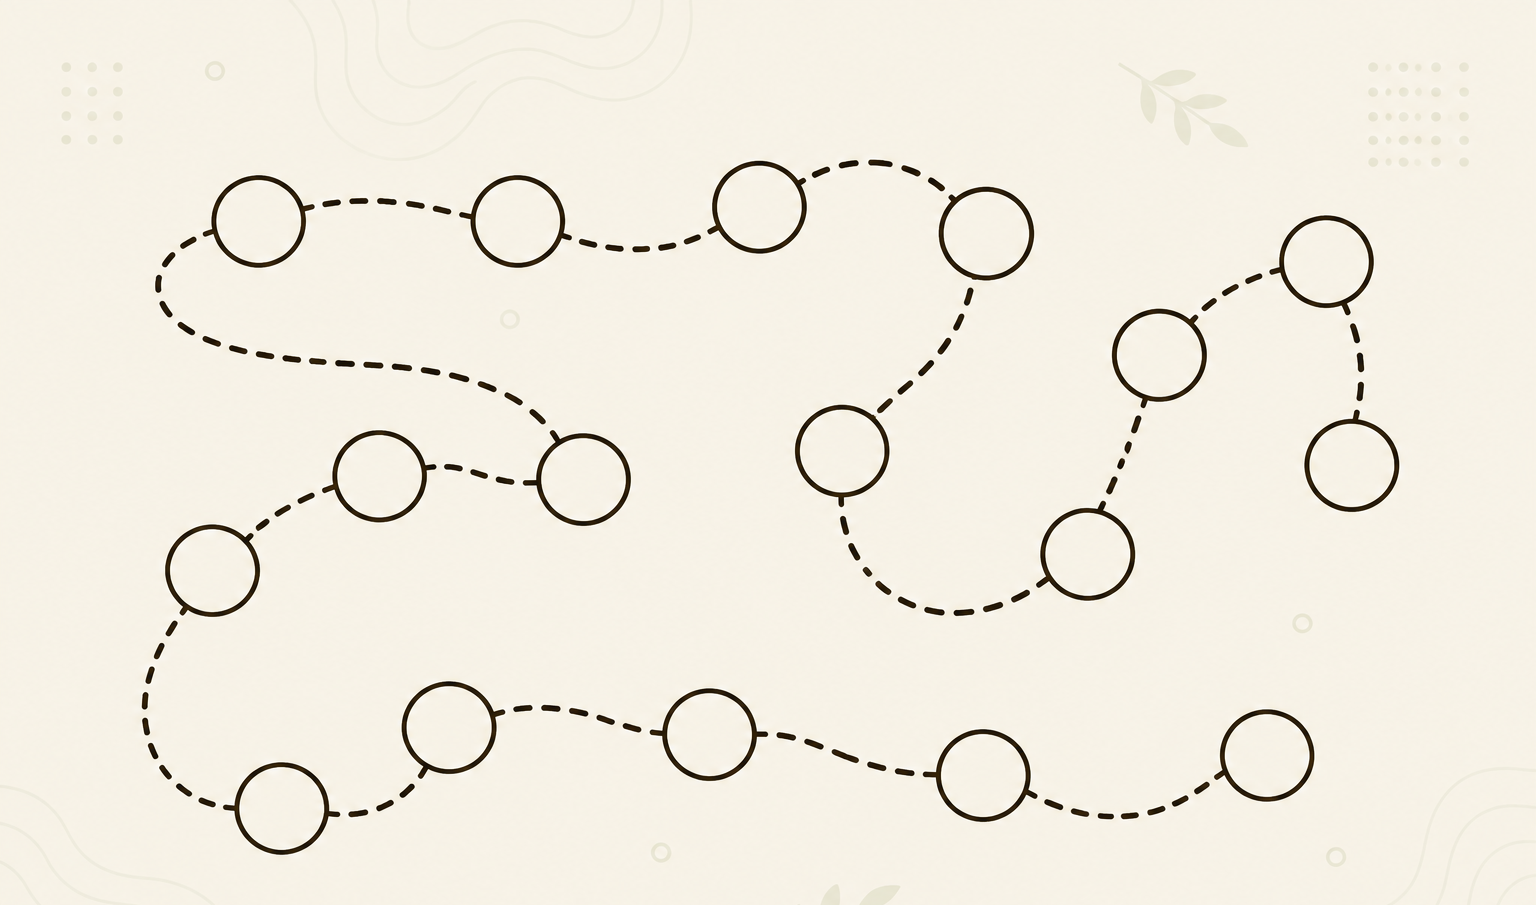
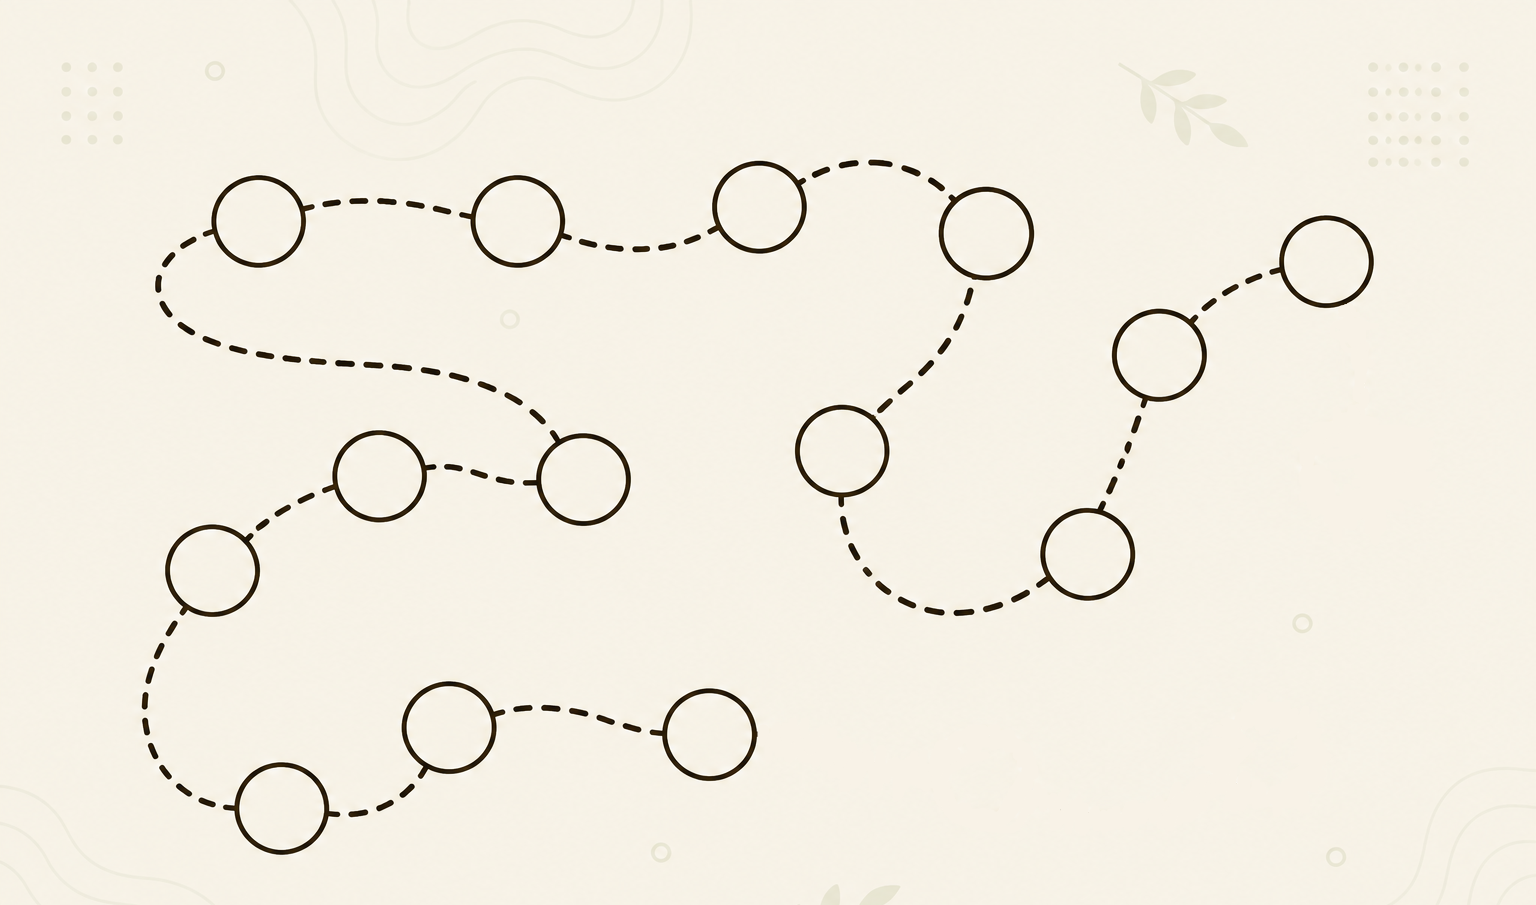
feat: padronzacao do numero de missoes atividades conforme solicitado

diff --git a/src/config/itensRegional.ts b/src/config/itensRegional.ts
@@ -64,11 +64,11 @@ export const posicoesItensLegislacao = [
 ]
 
 export const posicoesItensTransferenciaTecnologica = [
-  {
+  /*{
     id: 1,
     top: "50.94%",
     left: "87.99%",
-  },
+  },*/
   {
     id: 2,
     top: "29.28%",
@@ -138,7 +138,7 @@ export const posicoesItensTransferenciaTecnologica = [
     id: 15,
     top: "81.16%",
     left: "46.16%",
-  },
+  }/*,
   {
     id: 16,
     top: "85.69%",
@@ -148,7 +148,7 @@ export const posicoesItensTransferenciaTecnologica = [
     id: 17,
     top: "83.48%",
     left: "82.29%",
-  },
+  },*/
 ]
 
 export const posicoesItensPropriedadeIntelectual = [
@@ -211,12 +211,12 @@ export const posicoesItensPropriedadeIntelectual = [
     id: 12,
     top: "70.26%",
     left: "79.95%",
-  },
+  }/*,
   {
     id: 13,
     top: "83.01%",
     left: "87.14%",
-  },
+  },*/
 ]
 
 export const posicoesItensAmbientesInovacao = [
